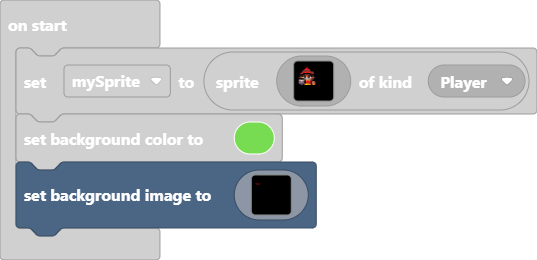
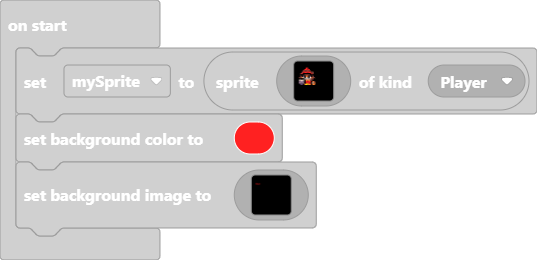
Update main.blocks, main.ts

Changed region(s): [[0.0298, 0.4615, 0.5959, 0.9231]]

diff --git a/main.ts b/main.ts
@@ -24,7 +24,7 @@ let mySprite = sprites.create(img`
     ........................
     ........................
     `, SpriteKind.Player)
-scene.setBackgroundColor(7)
+scene.setBackgroundColor(2)
 scene.setBackgroundImage(img`
     ................................................................................................................................................................
     ...222...2......................................................................................................................................................
